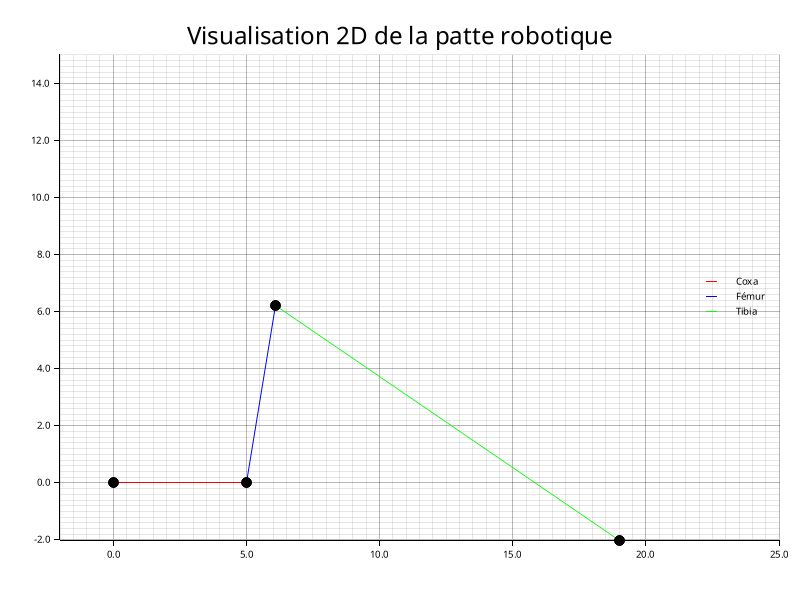
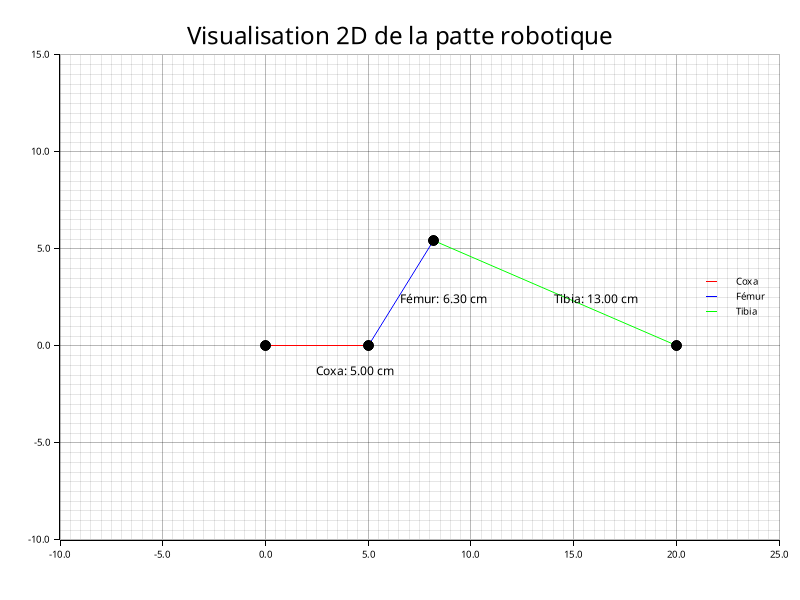
Update leg visualization functions to enhance plotting range and display segment lengths

Changed region(s): [[0.0312, 0.09, 0.9688, 0.93]]

diff --git a/Rust/trigo-calc/src/visualisation.rs b/Rust/trigo-calc/src/visualisation.rs
@@ -9,7 +9,7 @@ pub fn visualize_leg(x: f64, y: f64, z: f64, coxa: f64, femur: f64, tibia: f64, 
         .margin(20)
         .x_label_area_size(40)
         .y_label_area_size(40)
-        .build_cartesian_2d(-2.0..25.0, -2.0..15.0)?;
+        .build_cartesian_2d(-10.0..25.0, -10.0..15.0)?;
 
     chart.configure_mesh().draw()?;
 
@@ -32,6 +32,23 @@ pub fn visualize_leg(x: f64, y: f64, z: f64, coxa: f64, femur: f64, tibia: f64, 
         vec![femur_end, target], &GREEN
     ))?.label("Tibia").legend(|(x, y)| PathElement::new(vec![(x, y), (x + 10, y)], &GREEN));
 
+    // Afficher les longueurs des segments
+    chart.draw_series(std::iter::once(Text::new(
+        format!("Coxa: {:.2} cm", coxa),
+        (coxa / 2.0, -1.0),
+        ("sans-serif", 15)
+    )))?;
+    chart.draw_series(std::iter::once(Text::new(
+        format!("Fémur: {:.2} cm", femur),
+        ((coxa + femur_end.0) / 2.0, femur_end.1 / 2.0),
+        ("sans-serif", 15)
+    )))?;
+    chart.draw_series(std::iter::once(Text::new(
+        format!("Tibia: {:.2} cm", tibia),
+        ((femur_end.0 + target.0) / 2.0, (femur_end.1 + target.1) / 2.0),
+        ("sans-serif", 15)
+    )))?;
+
     // Dessiner les points
     chart.draw_series(PointSeries::of_element(
         vec![origin, coxa_end, femur_end, target],
@@ -47,17 +64,8 @@ pub fn visualize_leg(x: f64, y: f64, z: f64, coxa: f64, femur: f64, tibia: f64, 
     Ok(())
 }
 
-//! Génère la vue du ciel (top view) de la patte robotique
-//! # Arguments
-//! * `x` - Coordonnée X de la cible
-//! * `y` - Coordonnée Y de la cible
-//! * `z` - Coordonnée Z de la cible
-//! * `coxa` - Longueur du segment Coxa
-//! * `femur` - Longueur du segment Fémur
-//! * `tibia` - Longueur du segment Tibia
-//! * `theta1` - Angle de la Coxa en radians
-//! * `theta4` - Angle du Tibia en radians
-pub fn visualize_leg_top_view(x: f64, y: f64, z: f64, coxa: f64, femur: f64, tibia: f64, theta1: f64, theta4: f64) -> Result<(), Box<dyn std::error::Error>> {
+// Génère la vue du ciel (top view) de la patte robotique
+pub fn visualize_leg_top_view(x: f64, y: f64, _z: f64, coxa: f64, femur: f64, _tibia: f64, theta1: f64, theta4: f64) -> Result<(), Box<dyn std::error::Error>> {
     let root = BitMapBackend::new("leg_visualization_top.png", (800, 600)).into_drawing_area();
     root.fill(&WHITE)?;
     

diff --git a/Rust/trigo-calc/src/main.rs b/Rust/trigo-calc/src/main.rs
@@ -60,9 +60,9 @@ fn calcul (x : f64, y: f64, z: f64) {
 fn main() {
     println!("=== Programme de calcul -> trygonométrie ===");
 
-    let x = 19.0;
+    let x = 20.0;
     let y = 4.0;
-    let z = -7.0;
+    let z = 0.0;
 
     calcul(x, y, z);
 }
